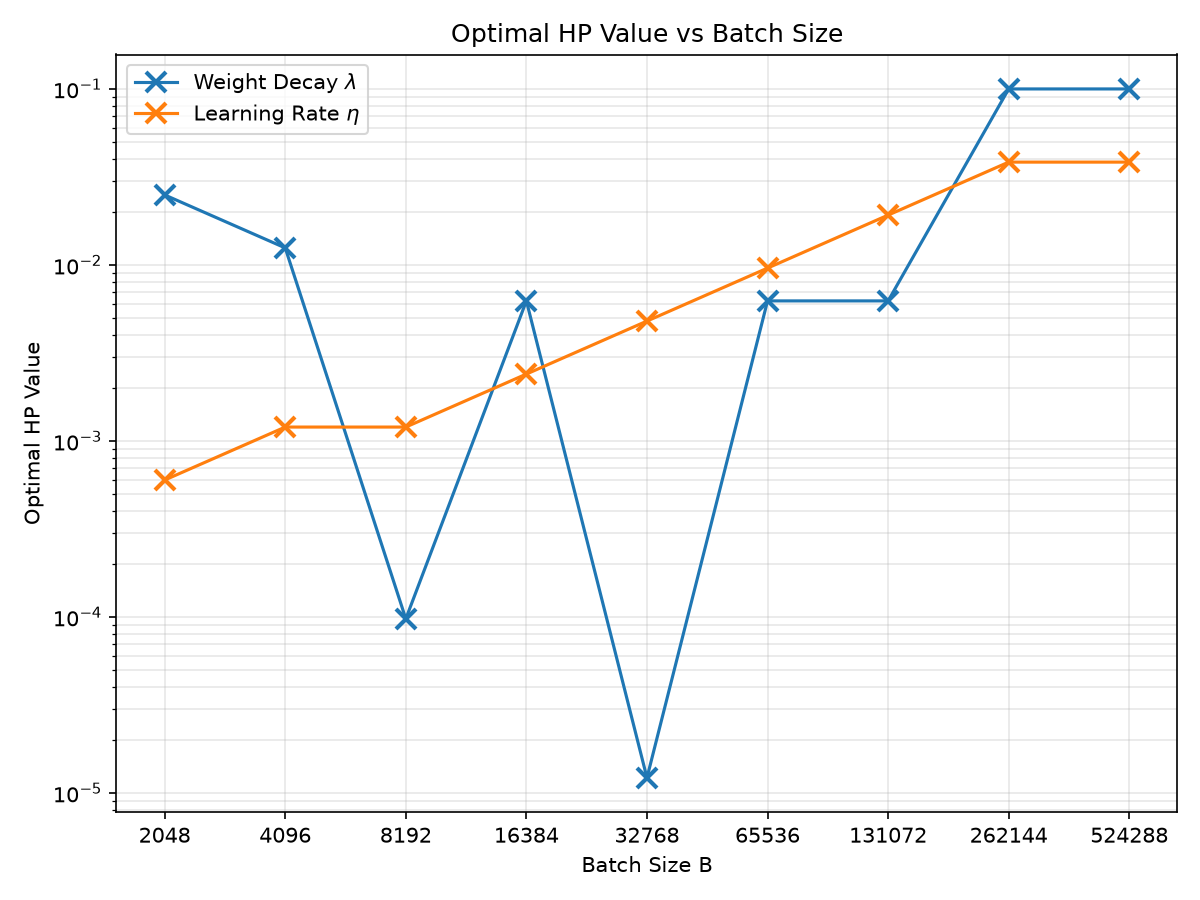
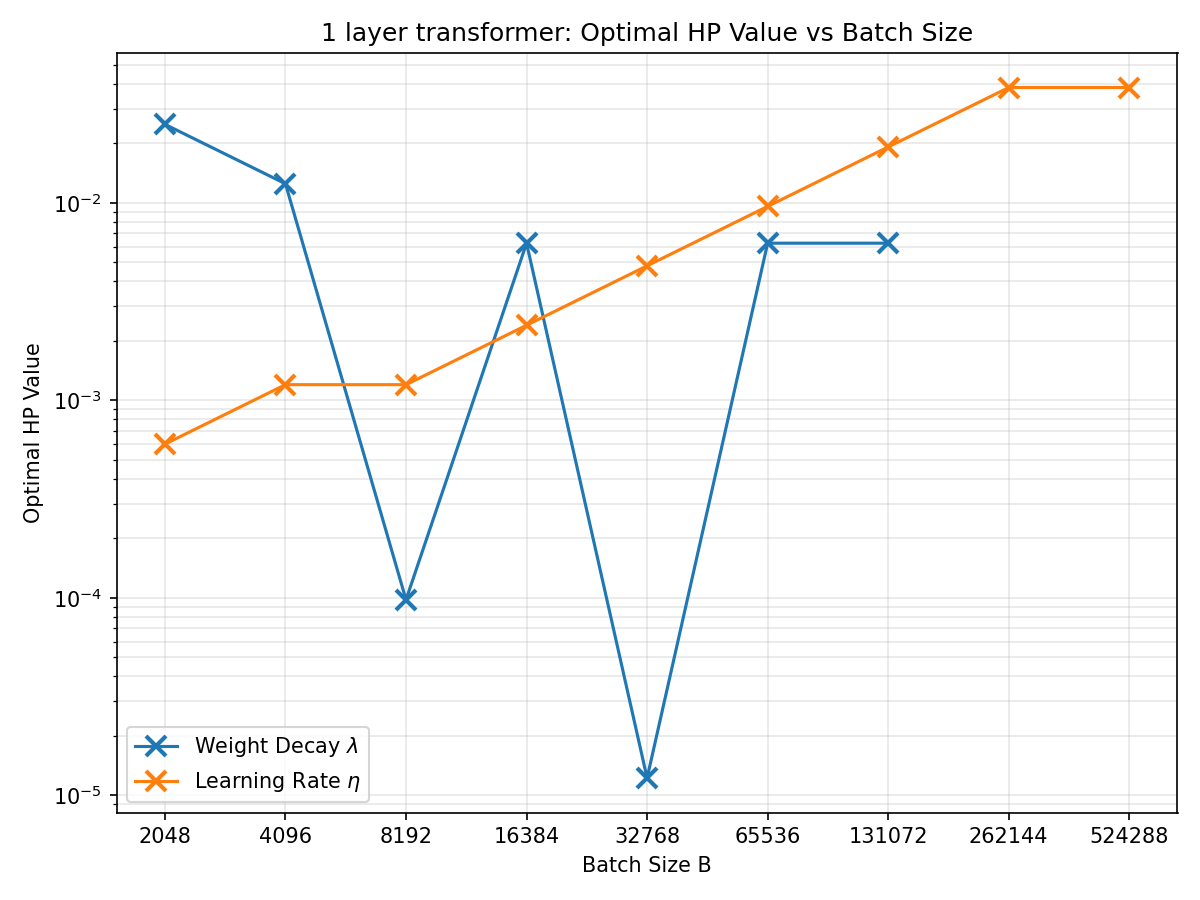
Rename titles of plots

diff --git a/ga_plot_sweep_b_wd_lr.py b/ga_plot_sweep_b_wd_lr.py
@@ -144,6 +144,17 @@ def group_by_bs(runs):
     return groups
 
 
+def drop_single_point(groups, label):
+    """Drop batch sizes whose sweep has only one point (no sweep to speak of)."""
+    for bs in sorted(bs for bs, rs in groups.items() if len(rs) < 2):
+        print(f"[skip] {label}: B={bs} has only one point")
+    return {bs: rs for bs, rs in groups.items() if len(rs) >= 2}
+
+
+def with_prefix(prefix, title):
+    return f"{prefix}: {title}" if prefix else title
+
+
 def best_per_bs(groups):
     return {bs: min(rs, key=lambda r: r["loss"]) for bs, rs in groups.items()}
 
@@ -193,7 +204,7 @@ def plot_sweep(groups, xkey, xlabel, ylabel, title, out_path):
     plt.close(fig)
 
 
-def plot_optimal_hp(best_wd, best_lr, out_path):
+def plot_optimal_hp(best_wd, best_lr, out_path, title_prefix=""):
     fig, ax = plt.subplots(figsize=(8, 6))
     all_bs = sorted(set(best_wd) | set(best_lr))
 
@@ -226,7 +237,7 @@ def plot_optimal_hp(best_wd, best_lr, out_path):
     ax.set_xticklabels([str(b) for b in all_bs])
     ax.set_xlabel("Batch Size B")
     ax.set_ylabel("Optimal HP Value")
-    ax.set_title("Optimal HP Value vs Batch Size")
+    ax.set_title(with_prefix(title_prefix, "Optimal HP Value vs Batch Size"))
     ax.grid(True, which="both", alpha=0.3)
     ax.legend()
     fig.tight_layout()
@@ -293,6 +304,11 @@ def main():
         default="mup_tiniest_1L",
         help="model size; sets TOTAL_TOKENS = 20 * params",
     )
+    parser.add_argument(
+        "--title_prefix",
+        default="",
+        help='prepended to plot titles, e.g. "1 layer transformer"',
+    )
     args = parser.parse_args()
 
     total_tokens = 20 * MODEL_PARAMS[args.model]
@@ -311,8 +327,14 @@ def main():
     ylabel = "Validation Loss"
     xlabel = r"AdamW timescale $\tau$"
 
-    wd_groups = group_by_bs([r for r in runs if np.isclose(r["lr"], args.wd_sweep_lr)])
-    lr_groups = group_by_bs([r for r in runs if np.isclose(r["wd"], args.lr_sweep_wd)])
+    wd_groups = drop_single_point(
+        group_by_bs([r for r in runs if np.isclose(r["lr"], args.wd_sweep_lr)]),
+        "weight decay sweep",
+    )
+    lr_groups = drop_single_point(
+        group_by_bs([r for r in runs if np.isclose(r["wd"], args.lr_sweep_wd)]),
+        "learning rate sweep",
+    )
     best_wd = best_per_bs(wd_groups)
     best_lr = best_per_bs(lr_groups)
 
@@ -323,7 +345,10 @@ def main():
             "tau",
             xlabel,
             ylabel,
-            rf"Sweeping weight decay $\lambda$ ($\eta$ = {args.wd_sweep_lr:g})",
+            with_prefix(
+                args.title_prefix,
+                rf"Sweeping weight decay $\lambda$ ($\eta$ = {args.wd_sweep_lr:g})",
+            ),
             p,
         )
         print(f"[saved] {p}")
@@ -337,7 +362,10 @@ def main():
             "tau",
             xlabel,
             ylabel,
-            rf"Sweeping learning rate $\eta$ ($\lambda$ = {args.lr_sweep_wd:g})",
+            with_prefix(
+                args.title_prefix,
+                rf"Sweeping learning rate $\eta$ ($\lambda$ = {args.lr_sweep_wd:g})",
+            ),
             p,
         )
         print(f"[saved] {p}")
@@ -346,7 +374,7 @@ def main():
 
     if best_wd or best_lr:
         p = os.path.join(args.out_dir, "optimal_hp.png")
-        plot_optimal_hp(best_wd, best_lr, p)
+        plot_optimal_hp(best_wd, best_lr, p, args.title_prefix)
         print(f"[saved] {p}")
 
     if wd_groups:
